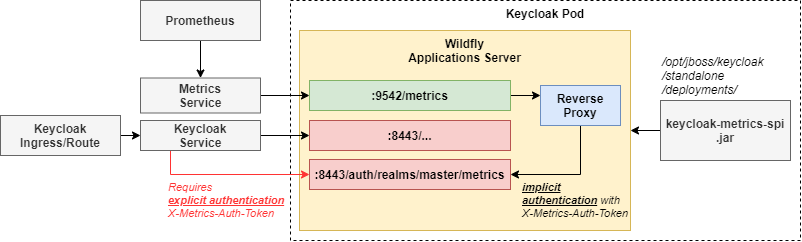
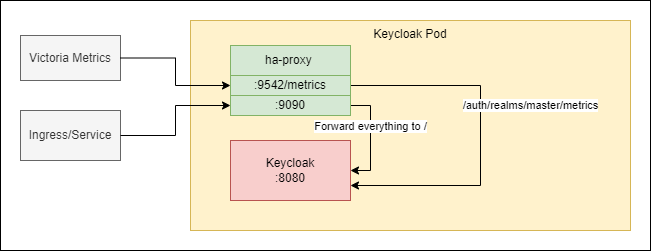
Updated documentation

diff --git a/README.md b/README.md
@@ -8,23 +8,8 @@ This image is meant to be used only with the Iris Helm chart provided by DHEI: [
 ### keycloak-metrics-spi
 
 If you deploy the Keycloak by using this image, it will make a new REST endpoint available: ``https://my-keycloak-instance/auth/realms/master/metrics``.  
-From this endpoint you will be able to access all metrics from all(!) relams no matter what realm is in the url.
+From this endpoint you will be able to access all metrics from all(!) realms no matter what realm is in the url.
 
-![Keycloak Prometheus Integration](img/Keycloak-Prometheus.png "Keycloak Prometheus Integration")
-
-Important:  This Docker image is meant to be used only with the Iris Helm chart provided by DHEI, since it will provide enhanced security configuration, so that the metrics won't be exposed to everyone.  
-If you use this image with the Iris Helm chart provided by DHEI you will get the HTTP status ``401 Unauthorized`` if you try to call the new metrics endpoint. Apart from that ou will get the following response message:  
-> No or invalid authentication token has been provided.  
-
-This is very much expected, since we want to access the metrics endpoint in a more secure manner. You will need to set an authentication header with your request, like so:
-
-```
-curl -H "X-Metrics-Auth-Token:superuser" https://my-keycloak-instance/auth/realms/master/metrics
-```
-
-After deploying the Iris Helm chart there will also be a new Kubernetes service ``keycloak-metrics`` that is properly annotated so that Prometheus will find it. By calling this service it will actually call a reverse proxy that has been configured by the Iris Helm chart which is pointing to the secured metrics endpoint and will automatically set the authentication header for you (which also can be configured in the Helm chart).  
-
-Of course you can call this service internally within the cluster (and cluster-wide) like so:
-``http://keycloak-metrics.<namespace>:9542/metrics``
-
+After deploying the Iris Helm chart this path won't be available because it isn't secured by a password and therefore blocked by ha-proxy. 
+To provide the metrics to the monitoring infrastructure ha-proxy forwards requests from :9542/metrics to Keycloaks metrics.
  
